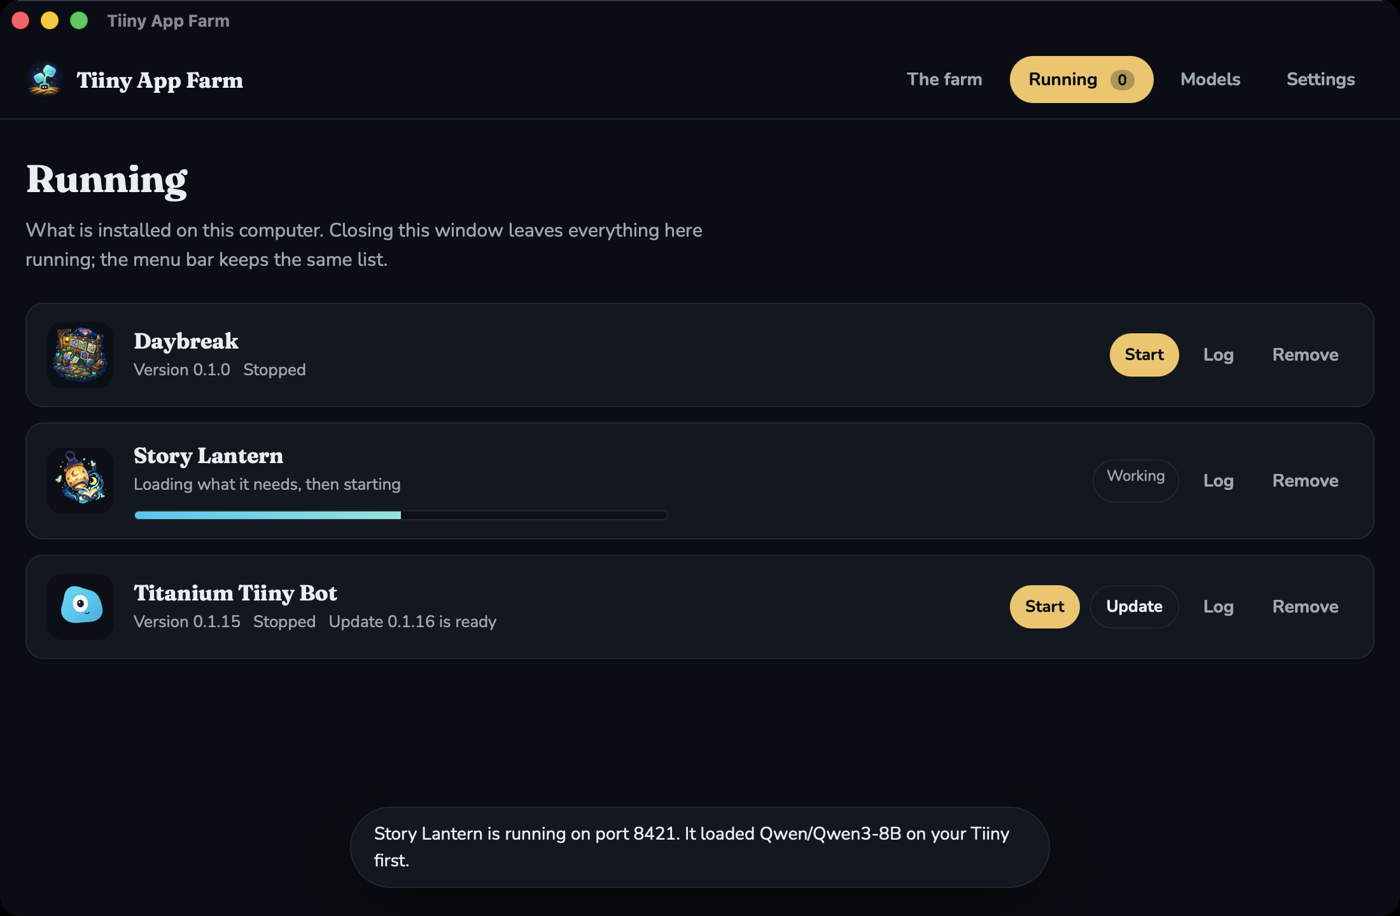
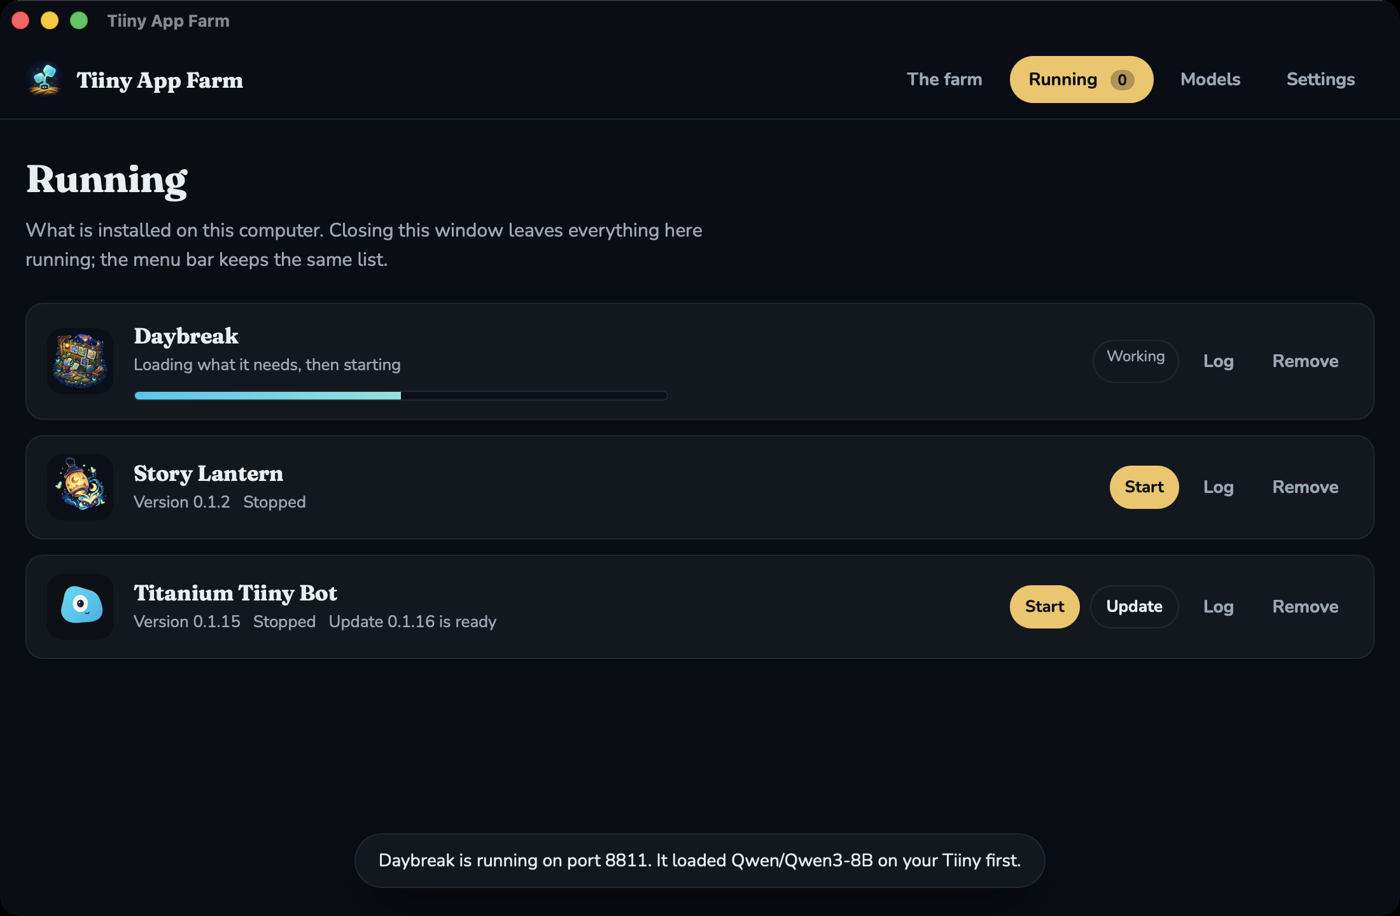
The engine is farm 0.1.15 from PyPI
farmFrom is gone, so the runners fetch the same release this Mac did rather
than a worktree that only exists here. The whole live cycle was run again
from a clean stage against the published engine: the Load buttons, the
free-unit guard tightening as a model becomes resident, and Load and start
loading a chat model and then starting the app.

The Tiiny was left as it was found, checked item by item after every leg.

diff --git a/docs/LAUNCHER-3-REPORT.md b/docs/LAUNCHER-3-REPORT.md
@@ -1,7 +1,7 @@
 # LAUNCHER-3: the Load buttons work
 
-Built 2026-09-14 on top of LAUNCHER-2 (`f301dd4`), against the engine side of
-MODELS-2.
+Built 2026-09-14 on top of LAUNCHER-2 (`f301dd4`), against farm 0.1.15 from
+PyPI, which is the engine side of MODELS-2.
 
 **Every number below was measured on one machine: a MacBook Pro, Apple M5 Max,
 macOS 26.6.2 (25G83), arm64, against Jason's Tiiny at 172.17.7.177.** Nothing
@@ -42,8 +42,10 @@ Recorded before anything was touched, and again at the end:
 | Models loaded | 4 | 4 |
 | Models on disk | 16 | 16 |
 
-Compared item by item, three times: after the model that was loaded by hand was
-taken off again, after Load and start, and at the end. Identical every time.
+Compared item by item, five times: after the model that was loaded by hand was
+taken off again, after Load and start, at the end of the run against the
+engine's own worktree, and then twice more through the whole cycle again against
+the published 0.1.15. Identical every time.
 
 Two models were moved during the work and both were put back. `zai-org/GLM-OCR`,
 4 units, was loaded from the pane and then unloaded. `Qwen/Qwen3-8B`, the chat
@@ -55,11 +57,14 @@ the change.
 
 ## 3. Loading one model, measured
 
-| | |
-| --- | --- |
-| Load pressed on `zai-org/GLM-OCR` | 0.0 s |
-| The button read Loading, continuously, for | 13 s and counting |
-| The device first reported it loaded | 30.8 s |
+| | Against the worktree | Against 0.1.15 from PyPI |
+| --- | --- | --- |
+| Load pressed on `zai-org/GLM-OCR` | 0.0 s | 0.0 s |
+| The device first reported it loaded | 30.8 s | 16.5 s |
+
+The difference between the two is the device, not the launcher: the same model
+took twice as long to become resident the first time. The button reads Loading
+for the whole of it either way.
 
 Thirty seconds is the device putting a model in the NPU, not the window waiting
 on itself. The button says Loading for the whole of it and nothing else on the
@@ -85,14 +90,14 @@ The chat model was unloaded, which left three apps refusing to start with the
 reason beside a greyed Start and a Load and start button next to it. Then Load
 and start was pressed.
 
-| | Daybreak | Story Lantern |
-| --- | --- | --- |
-| Pressed | 0.0 s | 0.0 s |
-| The app was running | 13.6 s | 13.7 s |
-| What it loaded first | `Qwen/Qwen3-8B` | `Qwen/Qwen3-8B` |
+| | Daybreak | Story Lantern | Daybreak, on 0.1.15 |
+| --- | --- | --- | --- |
+| Pressed | 0.0 s | 0.0 s | 0.0 s |
+| The app was running and said so | 13.6 s | 13.7 s | 12.9 s |
+| What it loaded first | `Qwen/Qwen3-8B` | `Qwen/Qwen3-8B` | `Qwen/Qwen3-8B` |
 
-The window says so rather than leaving it to be discovered: "Story Lantern is
-running on port 8421. It loaded Qwen/Qwen3-8B on your Tiiny first."
+The window says so rather than leaving it to be discovered: "Daybreak is running
+on port 8811. It loaded Qwen/Qwen3-8B on your Tiiny first."
 (`docs/shots/27-load-and-start.png`). The name comes from the engine's own
 `loaded` list, so the window is not guessing which model was picked.
 
@@ -154,6 +159,12 @@ so these are the numbers a fresh Mac gives.**
 | `cargo clippy --all-targets -- -D warnings` | clean |
 | `cargo fmt --check` | clean |
 | `npm run tauri build` | app and dmg built, ad hoc signed |
+| The engine inside the built app | `farm 0.1.15`, installed from PyPI |
+
+`scripts/runtime.pins.json` names `0.1.15` and has no `farmFrom`, so the runners
+fetch the same release this Mac did. The whole live cycle in sections 3 and 4
+was run once against the engine's own worktree and then again, from a clean
+stage, against the published release.
 
 ---
 

diff --git a/docs/shots/README.md b/docs/shots/README.md
@@ -5,8 +5,8 @@ than by screen region, so nothing else that happened to be on the screen is in
 them. Taken on a MacBook Pro (Apple M5 Max, macOS 26.6.2) on 2026-09-14 from the
 ad hoc signed 0.1.0 build against Jason's Tiiny at 172.17.7.177, with the engine
 pointed at a scratch home so nothing of his was touched. Pictures 01 to 15 were
-taken against engine farm 0.1.13, 16 to 23 against farm 0.1.14, and 24 to 27
-against farm 0.1.15.
+taken against engine farm 0.1.13, 16 to 23 against farm 0.1.14, and 24 to 27 against
+farm 0.1.15 from PyPI.
 
 The window is 1100 by 720 points in all of them except `10-smallest-size.png`
 and `12-smallest-first-run.png`, which are the smallest size the launcher
@@ -41,7 +41,7 @@ bar menu rather than the window.
 | `24-models-load-live.png` | The downloaded models with the Load buttons live. Anything that fits the 32 NPU units free has a button; anything that does not says how much more it needs and offers no button at all, because a button that cannot work is worse than a sentence. |
 | `25-models-after-a-load.png` | The same list a minute later, after Load was pressed on the 4 unit OCR model. It has gone from the list because it is loaded now, and every shortfall underneath it has grown by four: `openai/gpt-oss-20b` had a live button at exactly 32 units and now says it is 4 short. Nothing was typed to make that happen. |
 | `26-npu-after-a-load.png` | The budget at the top of the same pane, 28 of 100 free, with the bar moved to match. |
-| `27-load-and-start.png` | Load and start on an app whose chat model was not loaded. The farm loaded one and then started the app, and the window says which one: Story Lantern is running on port 8421, and it loaded Qwen/Qwen3-8B on the Tiiny first. |
+| `27-load-and-start.png` | Load and start on an app whose chat model was not loaded. The farm loaded one and then started the app, and the window says which one: Daybreak is running on port 8811, and it loaded Qwen/Qwen3-8B on the Tiiny first. |
 
 Three serials are blacked out, in `01`, `11` and `12`. They identify one person's
 device, they are not something the launcher handles, and they do not need to
